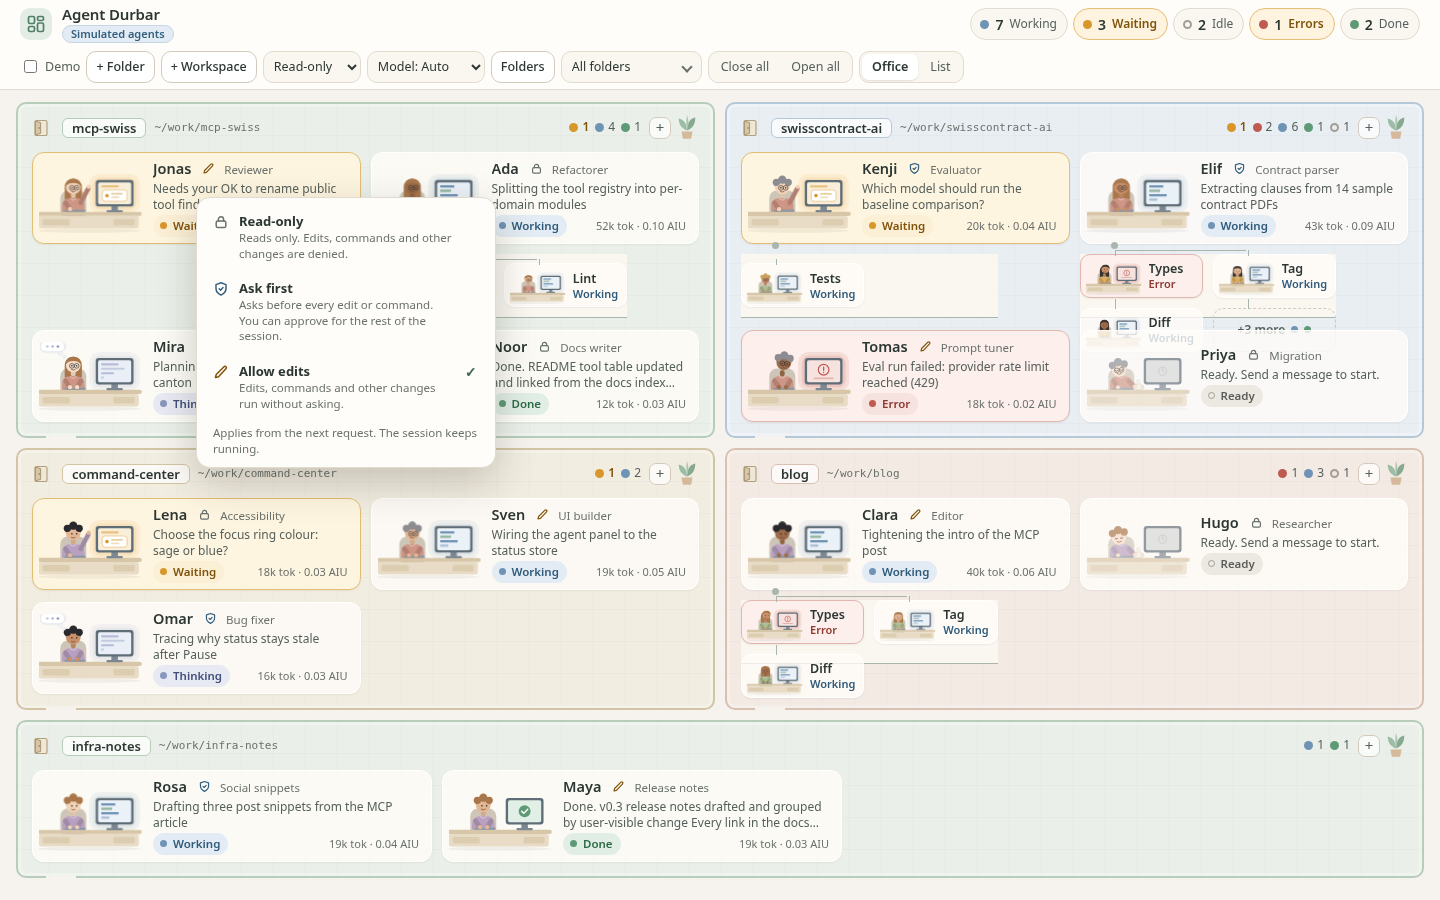
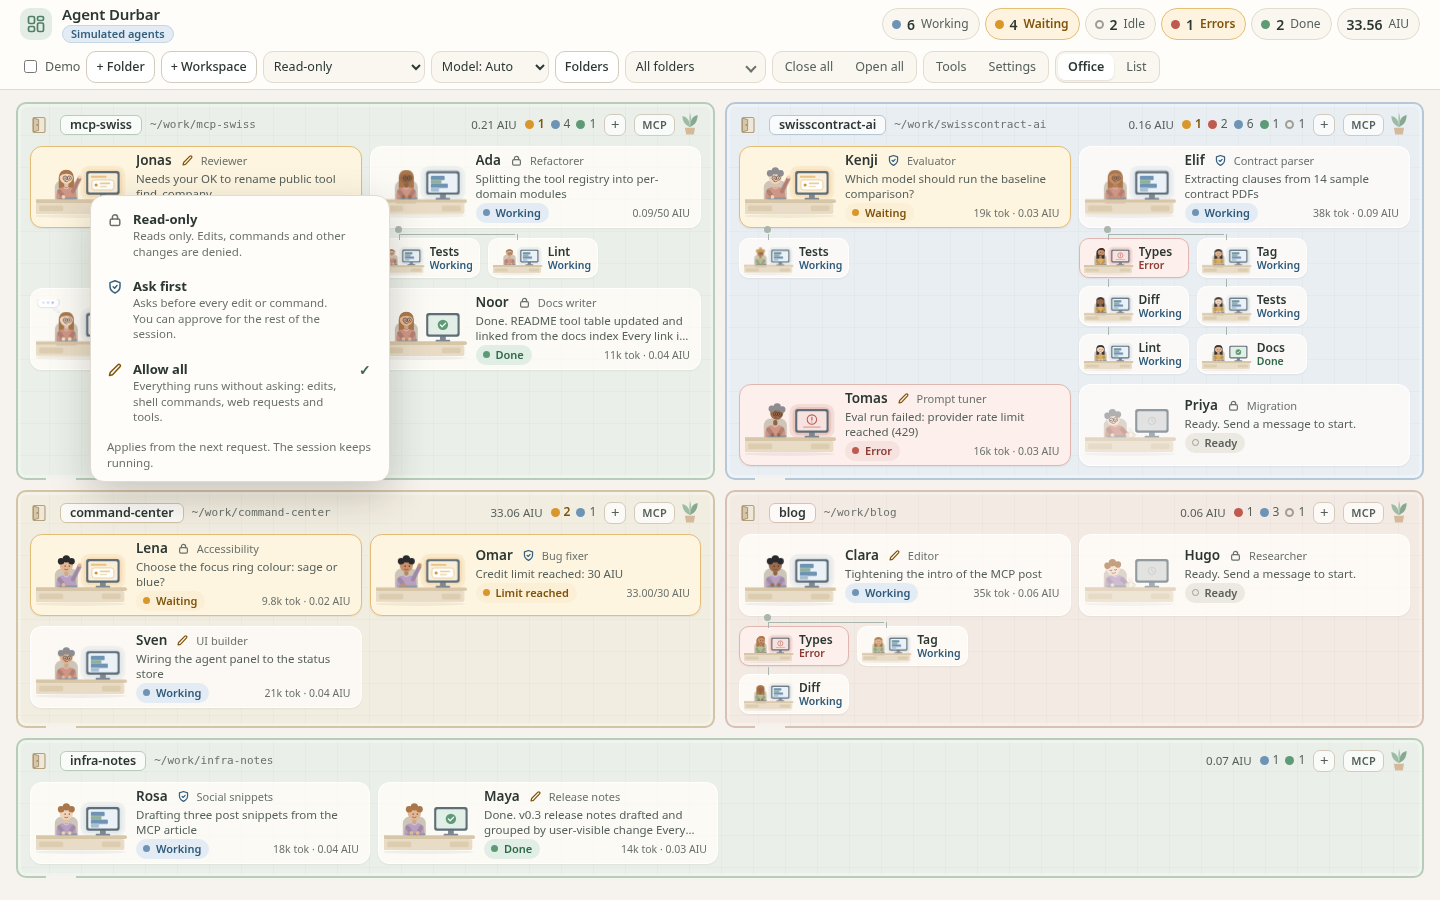
Spec 025 T006: regenerate the mode menu, confirmation and context-menu screenshots with Allow all (shots-mode.js driver) (#24)

diff --git a/scripts/shots-mode.js b/scripts/shots-mode.js
@@ -1,0 +1,53 @@
+/*
+ * Screenshots + UI checks for the permission-mode naming (specs 003 and 018): the mode menu, the "Allow all" confirmation and the
+ * right-click menu on an office card. Simulator only (no AI credits, no Copilot login). 1440x900, Linux with xvfb-run:
+ *
+ *   npm run build
+ *   MODE_OUT=docs/screenshots DURBAR_USER_DATA=$(mktemp -d) DURBAR_SIM=15 DURBAR_SIM_FREEZE=1 \
+ *     DURBAR_DRIVER=$PWD/scripts/shots-mode.js xvfb-run -a npx electron . --no-sandbox
+ *
+ * Writes m7-mode-switch.png, m7-mode-confirm.png and m7-mode-context.png (same names as the first set, which still said "Allow edits").
+ * It asserts that "Allow all" is shown and "Allow edits" is not, and exits non-zero (driver failure) on a miss.
+ */
+const path = require('path');
+const assert = require('assert');
+const OUT = process.env.MODE_OUT || '/tmp';
+const W = 1440, H = 900;
+
+module.exports = async (ctx) => {
+  const click = (sel) => ctx.js(`(()=>{const e=document.querySelector(${JSON.stringify(sel)});if(!e)return false;e.click();return true})()`);
+  const text = (sel) => ctx.js(`(document.querySelector(${JSON.stringify(sel)})||{}).innerText||''`);
+  // calm picture: no startup toast over the cards, no focus ring on the menu item
+  const calm = () => ctx.js(`(()=>{if(!document.getElementById('shotCalm')){const s=document.createElement('style');s.id='shotCalm';s.textContent='#toasts{display:none!important}';document.head.appendChild(s);}
+    if(document.activeElement&&document.activeElement!==document.body)document.activeElement.blur();})()`);
+  const shot = async (name) => { await ctx.sleep(450); await calm(); await ctx.shot(path.join(OUT, `m7-mode-${name}.png`)); console.log('[mode] saved', name); };
+  const idOf = (name) => ctx.js(`(()=>{const d=[...document.querySelectorAll('#stage .desk[data-id]')].find(x=>x.querySelector('.name,.nm,h3,b')&&x.innerText.trim().startsWith(${JSON.stringify(name)}));return d?d.dataset.id:null})()`);
+  ctx.win.setContentSize(W, H);
+  await ctx.sleep(2500);
+
+  // 1) chat header menu (Ada, Read-only now)
+  const ada = await idOf('Ada'); assert.ok(ada, 'Ada is on the floor');
+  await click(`#stage [data-id="${ada}"]`); await ctx.sleep(800);
+  await ctx.js(`(()=>{const t=document.querySelector('.prev-toggle[aria-expanded="true"]');if(t)t.click();})()`); await ctx.sleep(300);
+  await click('#modeChip'); await ctx.sleep(400);
+  const menu = await text('#modeMenu');
+  assert.match(menu, /Allow all/); assert.doesNotMatch(menu, /Allow edits/);
+  await shot('switch');
+
+  // 2) the confirmation
+  await click('#modeMenu .mm-allow'); await ctx.sleep(500);
+  const dlg = await text('#modeDlg');
+  assert.match(dlg, /Allow all for Ada\?/); assert.doesNotMatch(dlg, /Allow edits/);
+  await shot('confirm');
+  await ctx.js(`(()=>{const b=[...document.querySelectorAll('#modeDlg .btn')].find(x=>x.textContent==='Cancel');b&&b.click()})()`); await ctx.sleep(300);
+
+  // 3) right-click menu on a card in the office
+  await click('#backBtn'); await ctx.sleep(900);
+  const jonas = await idOf('Jonas'); assert.ok(jonas, 'Jonas is on the floor');
+  await ctx.js(`(()=>{const d=document.querySelector('#stage .desk[data-id="${jonas}"]');const r=d.getBoundingClientRect();d.dispatchEvent(new MouseEvent('contextmenu',{bubbles:true,cancelable:true,clientX:r.left+60,clientY:r.top+50}));})()`);
+  await ctx.sleep(400);
+  const ctxMenu = await text('#modeMenu');
+  assert.match(ctxMenu, /Allow all/); assert.doesNotMatch(ctxMenu, /Allow edits/);
+  await shot('context');
+  assert.ok(!/Allow edits/.test(await text('body')), 'no "Allow edits" anywhere on screen');
+};

diff --git a/specs/025-docs-sync/spec.md b/specs/025-docs-sync/spec.md
@@ -16,7 +16,7 @@
 - **FR-002** `[IMPLEMENTED]` The PR template has a **Docs** section: a *Docs updated* box, a *no docs impact* box with a `Docs: n/a <reason>` line (in an HTML comment, like `Spec-Exempt`), and a screenshots line in Verification.
 - **FR-003** `[IMPLEMENTED]` `test:` A non-blocking **Docs check (warning only)** job in `.github/workflows/spec-kit.yml` runs `.github/scripts/docs-check.sh`. It warns (annotation and step summary) when (a) `src/` changed and none of `README.md`, `CHANGELOG.md`, `docs/` changed, or (b) `package.json` scripts changed and `README.md` did not. Switched off by a `Docs: n/a <reason>` line (reason of 4+ characters, not the template placeholder, not inside a comment) or a `docs-n/a` or `spec-exempt` label. The script always exits 0; the job has `continue-on-error: true`; it is **not** in `.github/ruleset-main.json` required checks. `.github/scripts/test-docs-check.sh` (20 cases, throwaway repos) runs in the same job.
 - **FR-004** `[IMPLEMENTED]` Catch-up audit against `main` after PRs #1, #11-#17: README status block, release status (v0.1.0-alpha.2 draft pre-release, unsigned), permission names (Read-only / Ask first / Allow all), usage totals, roadmap, known limits, Development scripts, links (repo, board), contributors and credits; CHANGELOG *Unreleased* (and the *Allow edits* wording in the alpha.2 entry); CONTRIBUTING, SECURITY, `specs/README.md` and stale task ticks in specs 021 and 023.
-- **FR-005** `[KNOWN GAP]` Screenshots that still show the old *Allow edits* wording and are not linked from the README (`m7-mode-confirm.png`, `m7-mode-context.png`, and the real-session `m3-*`/`m5-*` pictures, which are history) are not regenerated; they need a simulator run. The README now links the new `003-allow-all-menu-*` and `011-usage-totals-*` pictures instead of `m7-mode-switch.png`.
+- **FR-005** `[IMPLEMENTED]` (sim: `scripts/shots-mode.js`) The three screenshots that still showed the old *Allow edits* wording (`m7-mode-switch.png`, `m7-mode-confirm.png`, `m7-mode-context.png`; none linked from the README) were regenerated on the simulator at 1440x900 (the size of the originals) and now show *Allow all*. A pass over every picture in `docs/screenshots/` found no other one that shows the old name. The real-session `m3-*` and `m5-*` pictures are history and show only the top-bar *Read-only* and *Ask first* states, so they stay. The README links the `003-allow-all-menu-*` and `011-usage-totals-*` pictures instead of `m7-mode-switch.png`.
 - **FR-006** The check is advisory. It does not read file contents beyond `git diff` names and the `package.json` diff, uses no network, no tokens, no secrets.
 
 ## Out of scope

diff --git a/CHANGELOG.md b/CHANGELOG.md
@@ -22,6 +22,7 @@ Small update on top of [v0.1.0-alpha.2](https://github.com/three-feathers/agent-
 - **Usage totals (spec 011 FR-018..FR-023, PR #17).** An office total (header chip) and a per-folder total (room header and closed door plate) in AIU, summed from the runtime's usage events since the app opened. Not saved across restarts; ended sessions stay counted; shows "credits not reported" instead of 0 when the runtime sends no figure. `npm run test:usagetotals`.
 - **Windows paths in session-grant scopes** are unit-tested (spec 003 FR-031/FR-032, PR #16). Known gap: Windows grant keys are not yet compared case-insensitively (task T028).
 - **Docs and process:** README, CHANGELOG and spec statuses brought in line with `main`; AGENTS.md has a "Keep docs in sync" rule; the PR template has a "Docs updated" box; a non-blocking check warns when `src/` changes without a docs change (spec 025).
+- **Screenshots of the mode menu, confirmation and right-click menu** (`docs/screenshots/m7-mode-switch.png`, `m7-mode-confirm.png`, `m7-mode-context.png`) were regenerated on the simulator and now say *Allow all*; the driver is `scripts/shots-mode.js` (spec 025 FR-005, T006).
 
 ## v0.1.0-alpha.2 (draft pre-release, 2026-10-16)
 

diff --git a/specs/025-docs-sync/tasks.md b/specs/025-docs-sync/tasks.md
@@ -5,5 +5,5 @@
 - [x] T003 `AGENTS.md` "Keep docs in sync", pointers in CLAUDE.md, copilot-instructions, docs/collaboration.md, CONTRIBUTING.md [FR-001]
 - [x] T004 PR template: Docs section, screenshots line [FR-002]
 - [x] T005 `docs-check.sh`, `test-docs-check.sh`, non-blocking `docs-check` job, `docs-n/a` label in `labels.tsv` [FR-003]
-- [ ] T006 Regenerate the screenshots that still show "Allow edits" (`m7-mode-confirm.png`, `m7-mode-context.png`) from the simulator [FR-005]
+- [x] T006 Regenerate the screenshots that still show "Allow edits" (`m7-mode-confirm.png`, `m7-mode-context.png`, and `m7-mode-switch.png`, which the audit also found) from the simulator with `scripts/shots-mode.js` [FR-005]
 - [ ] T007 Review the check after two weeks: keep as a warning, or propose making it required (maintainer decision)
